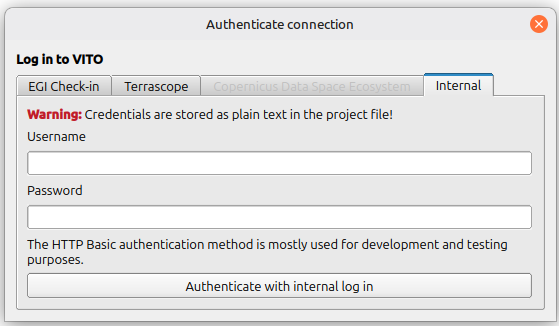
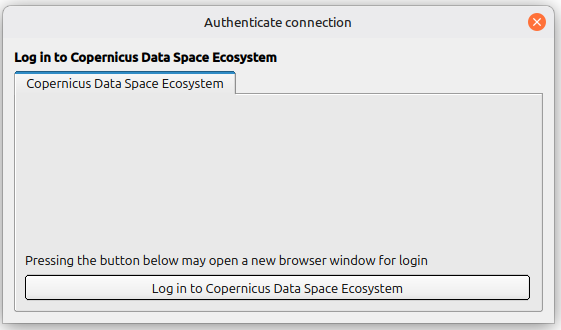
improve login guide

Changed region(s): [[0.0, 0.0, 1.0, 1.0]]

diff --git a/documentation/1.0/qgis/index.md b/documentation/1.0/qgis/index.md
@@ -27,11 +27,15 @@ This will open a dialog window that allows you to enter URL and name of your new
 
 ![QGIS Connection Dialog](./images/connection_dialog.png)
 
-Now that you have chosen a backend, you can expand the openEO browser item and right-click on the connection entry to select "Log In (Authenticate)". This will allow you to use Basic authentication or [OpenID Connect](https://openid.net/connect/) authentication to login your connection:
+Now that you have chosen a backend, a login-dialog may open. you can also access this dialog by expanding the openEO browser item and right-clicking on the connection entry to select "Log In (Authenticate)". 
 
-![QGIS Login Dialog](./images/login_dialog.png)
+The login-dialog will allow you to use Basic authentication or [OpenID Connect](https://openid.net/connect/) authentication to login your connection:
 
-Using OpenID Connect login will open a window of your system's web browser, where you are asked to authenticate your connection.
+![QGIS Login Dialog example](./images/login_dialog.png)
+
+Using OpenID Connect login will open a window of your system's web browser, where you are asked to authenticate your connection. After authentication, you can return to your qgis window. On successful authentication, QGIS will display a success banner indicating a successful login: 
+
+![login successful](login_success.png)
 
 If logged in successfully, next to `"Collections"`, it is now possible to expand the `"Batch Job"` and `"Web Services"` entry that can be found upon expanding your connection browser item (provided the given backend supports each).
 
